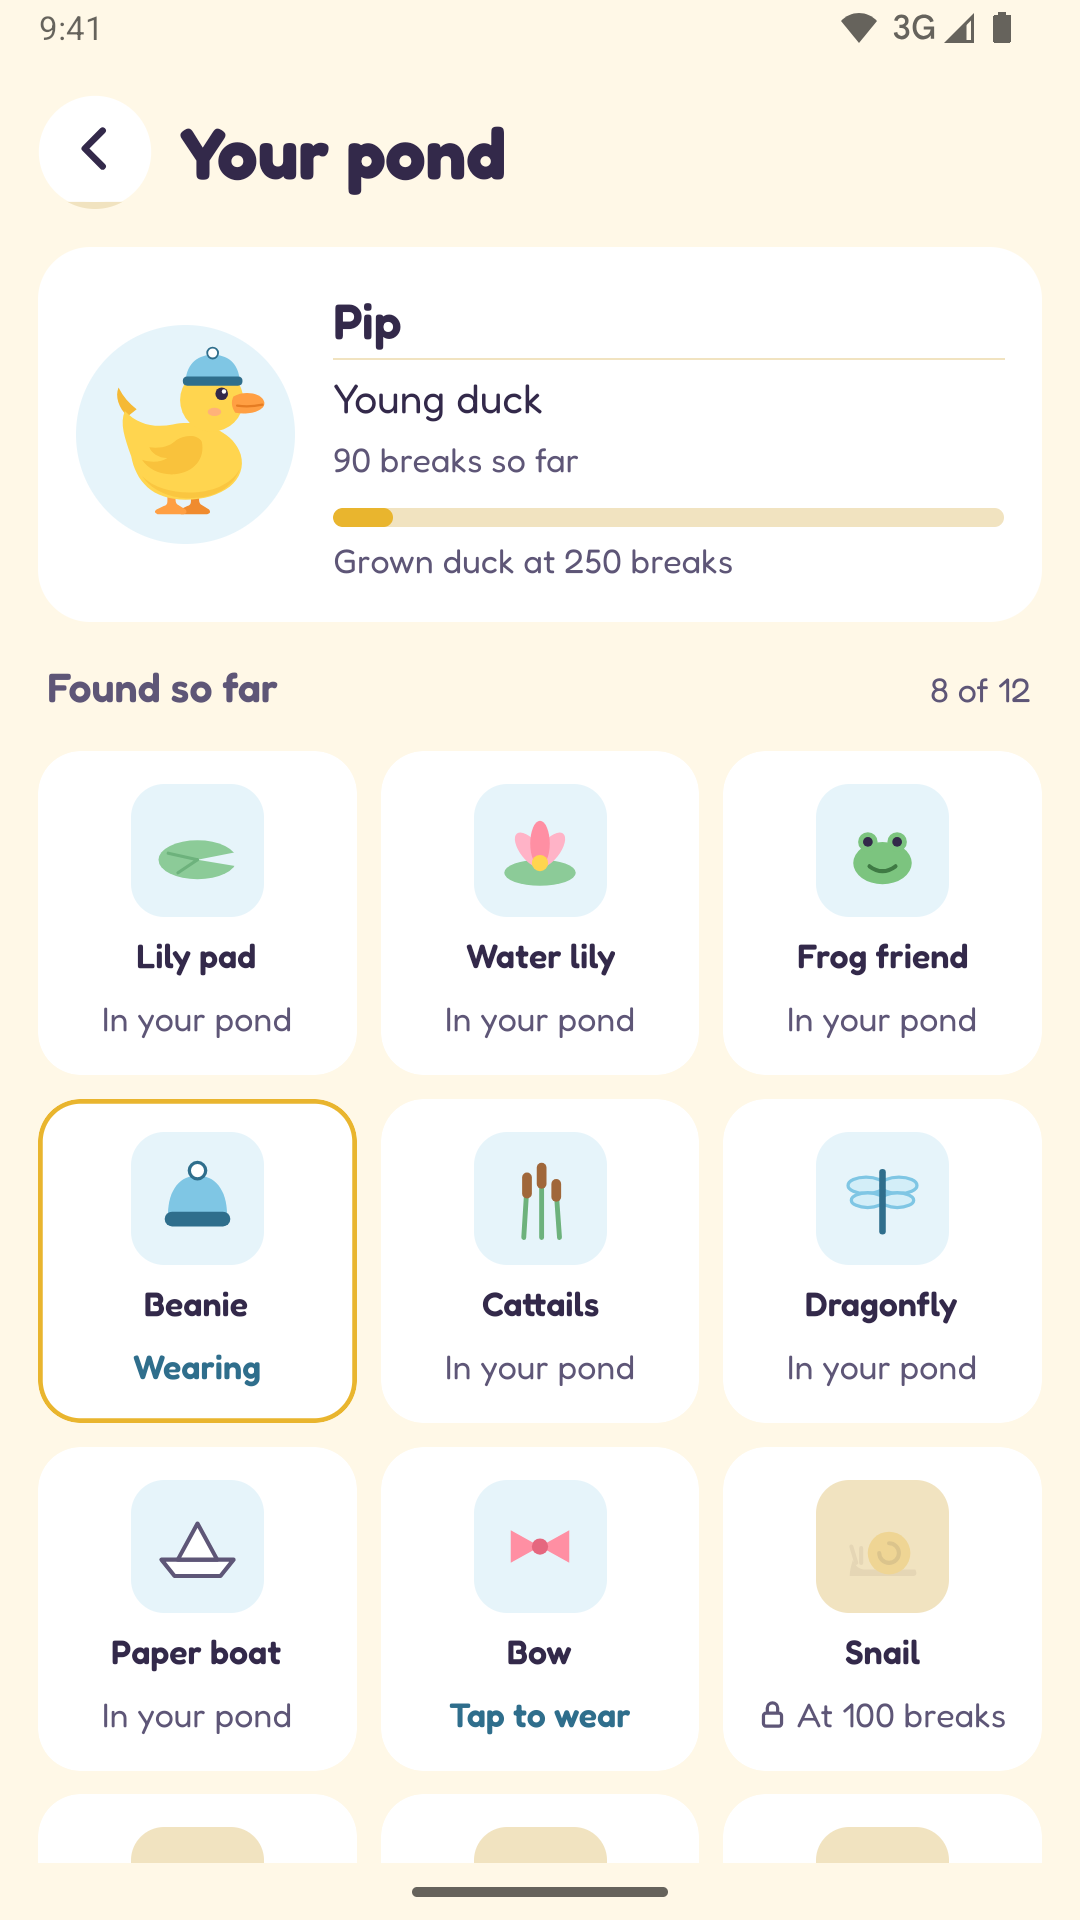
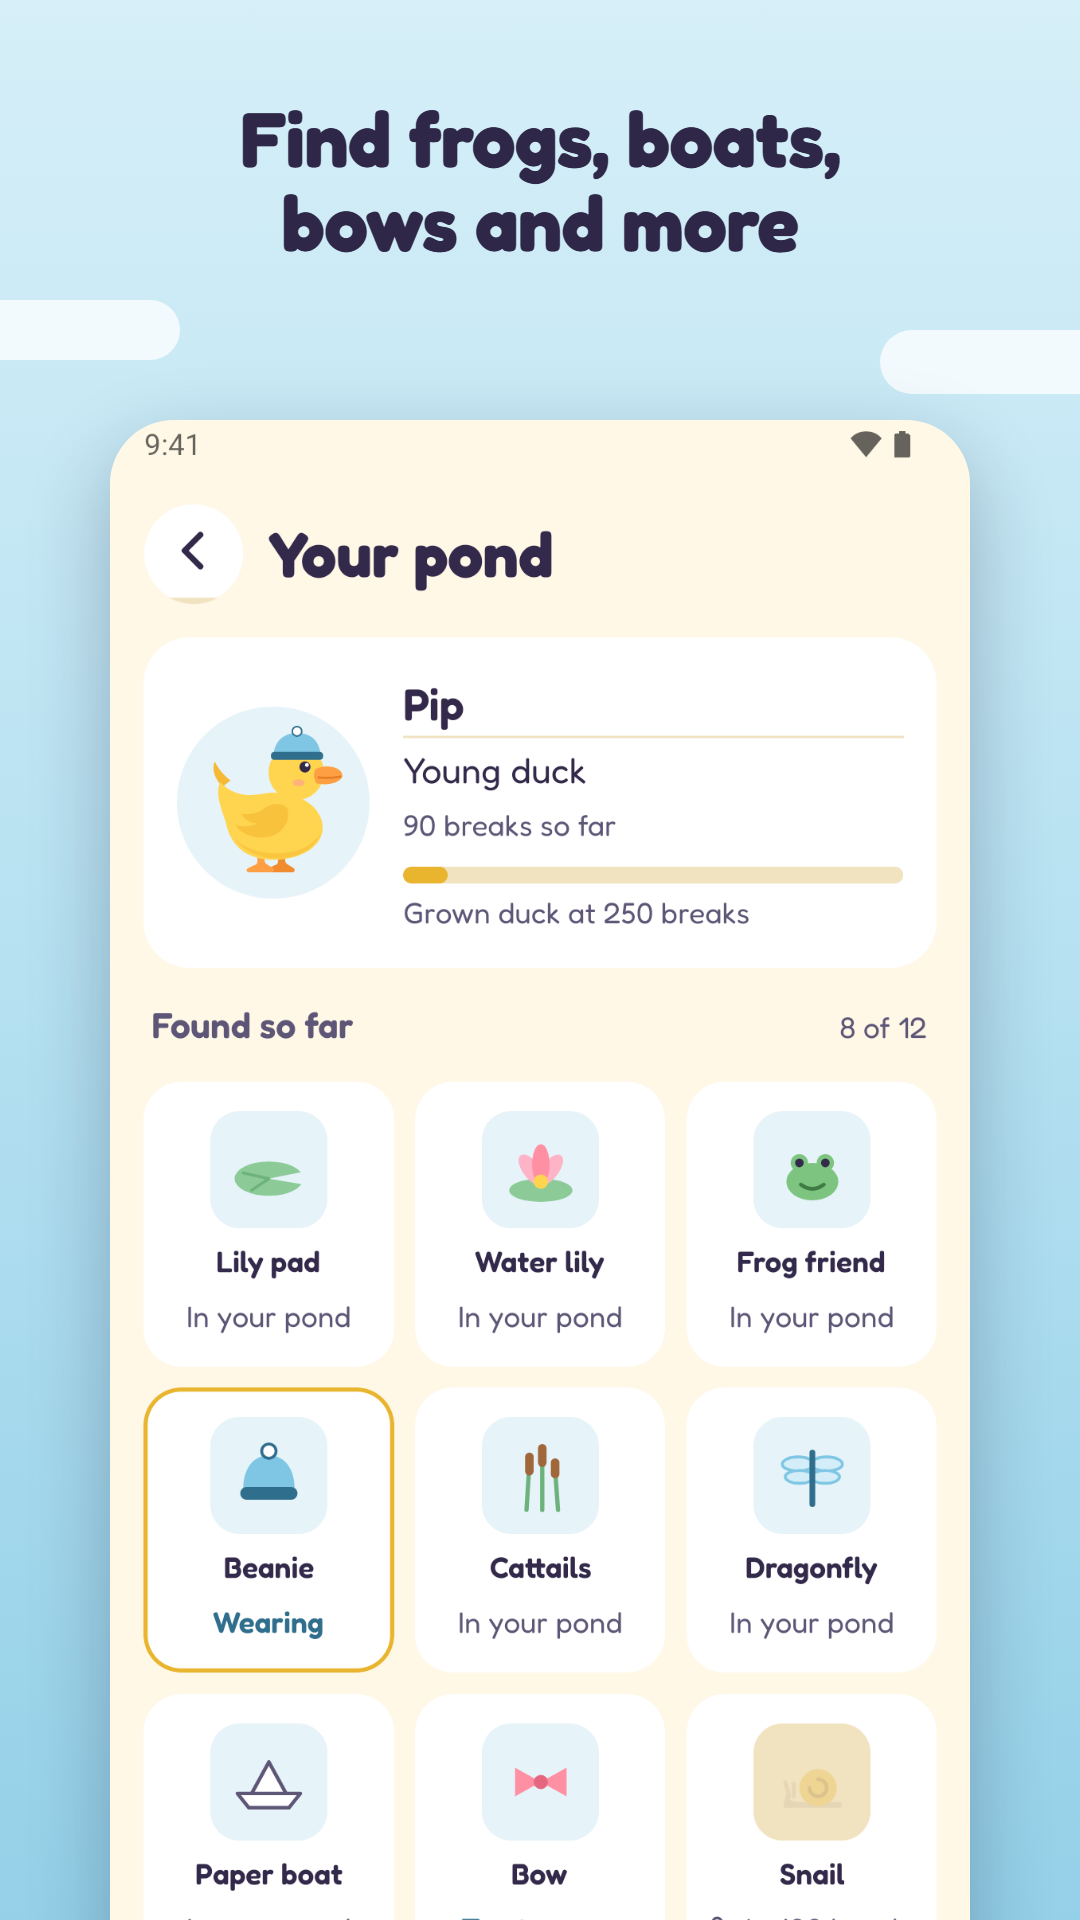
Store screenshots with headlines, release notes and featuring tips
- Seven new 1080x1920 screenshots: the real app under a short headline on a sky
  or night background, no phone frames. Freshly captured, so the bubble's tail
  points at the beak. The notification one shows only Quack Break's countdown.
  They replace the plain screenshots.
- README: screenshot order, headlines and alt text; one more line in the full
  description for search (computer, studying, gaming, reading); first-release
  notes; what helps an app get featured, including Google's nomination form.

diff --git a/store/google-play/README.md b/store/google-play/README.md
@@ -38,6 +38,8 @@ A friendly duck that reminds you to rest your eyes with the 20-20-20 rule
 ```
 Quack Break is a small, friendly app that reminds you to rest your eyes when you spend a long time looking at a screen.
 
+It is handy for long days at a computer, studying, gaming, or reading on your phone.
+
 It follows the 20-20-20 rule: every 20 minutes, look at something about 20 feet (6 meters) away for 20 seconds. Pip the duck keeps time and gives you a gentle quack when it's break time.
 
 How it works
@@ -75,17 +77,25 @@ Quack Break is a reminder app. It is not a medical device and does not diagnose,
 | --- | --- |
 | App icon | `icon-512.png` |
 | Feature graphic | `feature-graphic.png` |
-| Phone screenshots, in this order | `screenshots/01-home.png` to `07-settings.png` |
+| Phone screenshots, in this order | `screenshots/01-reminder.png` to `07-settings.png` |
 
-Alt text for the screenshots, if asked:
+The screenshots are the real app with a short headline on top. The first three matter most: many people only see those before deciding. They meet Google's rules for recommendation spots: 1080 x 1920, at least four, headline text well under a fifth of each picture, and no phone frames.
 
-1. Home screen with a duck by a pond and the time until the next break
-2. A break in progress with a ring counting down the seconds
-3. Break done, with a new bow unlocked for the duck
-4. The pond collection showing items found so far
-5. Home at night when a break is due, with Start, Snooze and Skip
-6. A break at night with fireflies over the pond
-7. Settings for the 20-20-20 rule, snooze and quiet hours
+| Screenshot | Headline | Alt text, if asked |
+| --- | --- | --- |
+| `01-reminder.png` | A friendly reminder to rest your eyes | Home screen with a duck by a pond and the time until the next break |
+| `02-look-away.png` | Look far away for 20 seconds | A break in progress with a ring counting down the seconds |
+| `03-grow.png` | Every break helps your duck grow | Break done, with a new bow unlocked for the duck |
+| `04-pond.png` | Find frogs, boats, bows and more | The pond collection showing items found so far |
+| `05-notification.png` | Your next break, right in your notifications | A notification counting down to the next break |
+| `06-night.png` | A calm look for late nights | Home at night when a break is due, with Start, Snooze and Skip |
+| `07-settings.png` | Set your own timing and sounds | Settings for the 20-20-20 rule, snooze, quiet hours and sounds |
+
+### Release notes for the first version (500 characters max)
+
+```
+Hello from Pip! Quack Break reminds you to rest your eyes with the 20-20-20 rule. Take a break, look far away, and watch your pond grow.
+```
 
 ### Category and contact
 
@@ -114,3 +124,17 @@ In Play Console, find the App content page under Policy.
 | Health apps | Tick "Stress Management, Relaxation, Mental Acuity". It is the closest fit for a rest-break reminder. If you'd rather not, "My app doesn't provide any health features" is the other option. |
 
 Exact alarms need no form. The app uses the version of that permission that the user switches on in "Alarms & reminders". Google only asks for a form for the other version, which apps get automatically.
+
+---
+
+## Getting noticed
+
+Google chooses which apps to feature. You can nominate yours with its featuring form at support.google.com/googleplay/contact/featuring_review. For a new app, send it at least four weeks before the launch date you want, after the build is uploaded to Play Console. It doesn't guarantee anything.
+
+What Google looks at, and where this app stands:
+
+- **A complete, sharp listing.** Done: icon, feature graphic, seven 1080 x 1920 screenshots, a clear short description.
+- **Few crashes and freezes.** Google shows these under Android vitals in Play Console. The app passed 5,000 random taps with no crash, so watch that page after launch.
+- **Ratings and reviews.** Ask your 12 testers to leave honest reviews once the app is public. Reply to reviews in Play Console.
+- **Up-to-date Android.** Done: the app targets Android 16.
+- **Search.** People find apps by words in the name and descriptions. The listing uses the words people search for: eye break, rest your eyes, 20-20-20 rule, screen, reminder.
